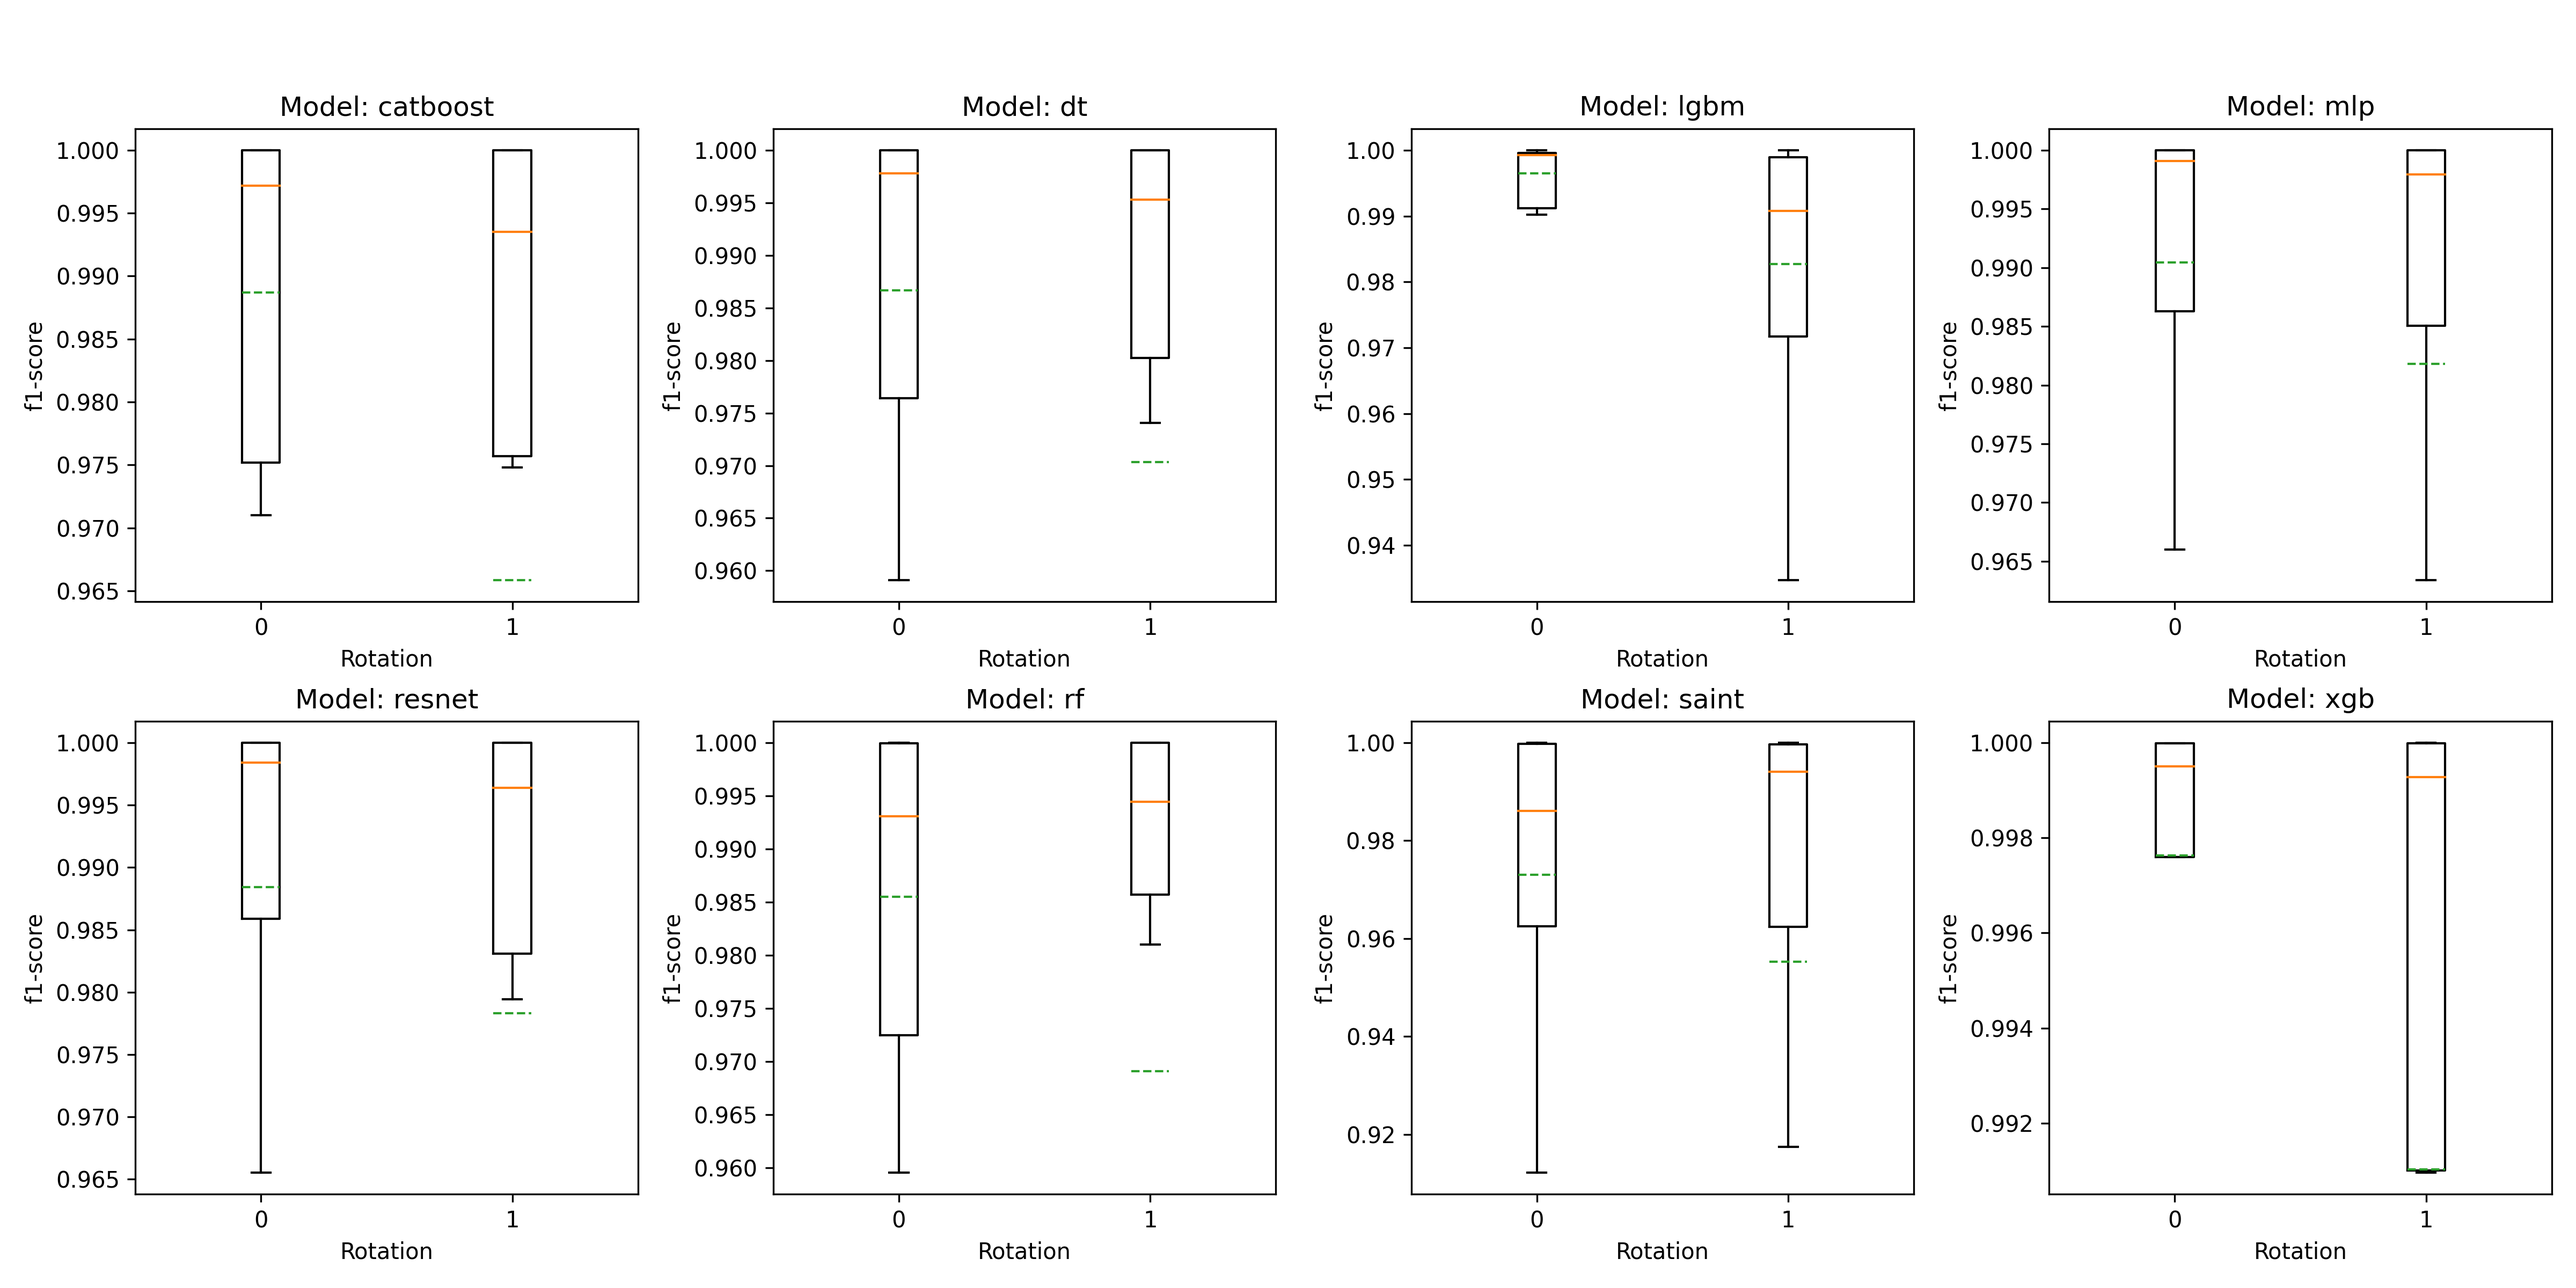
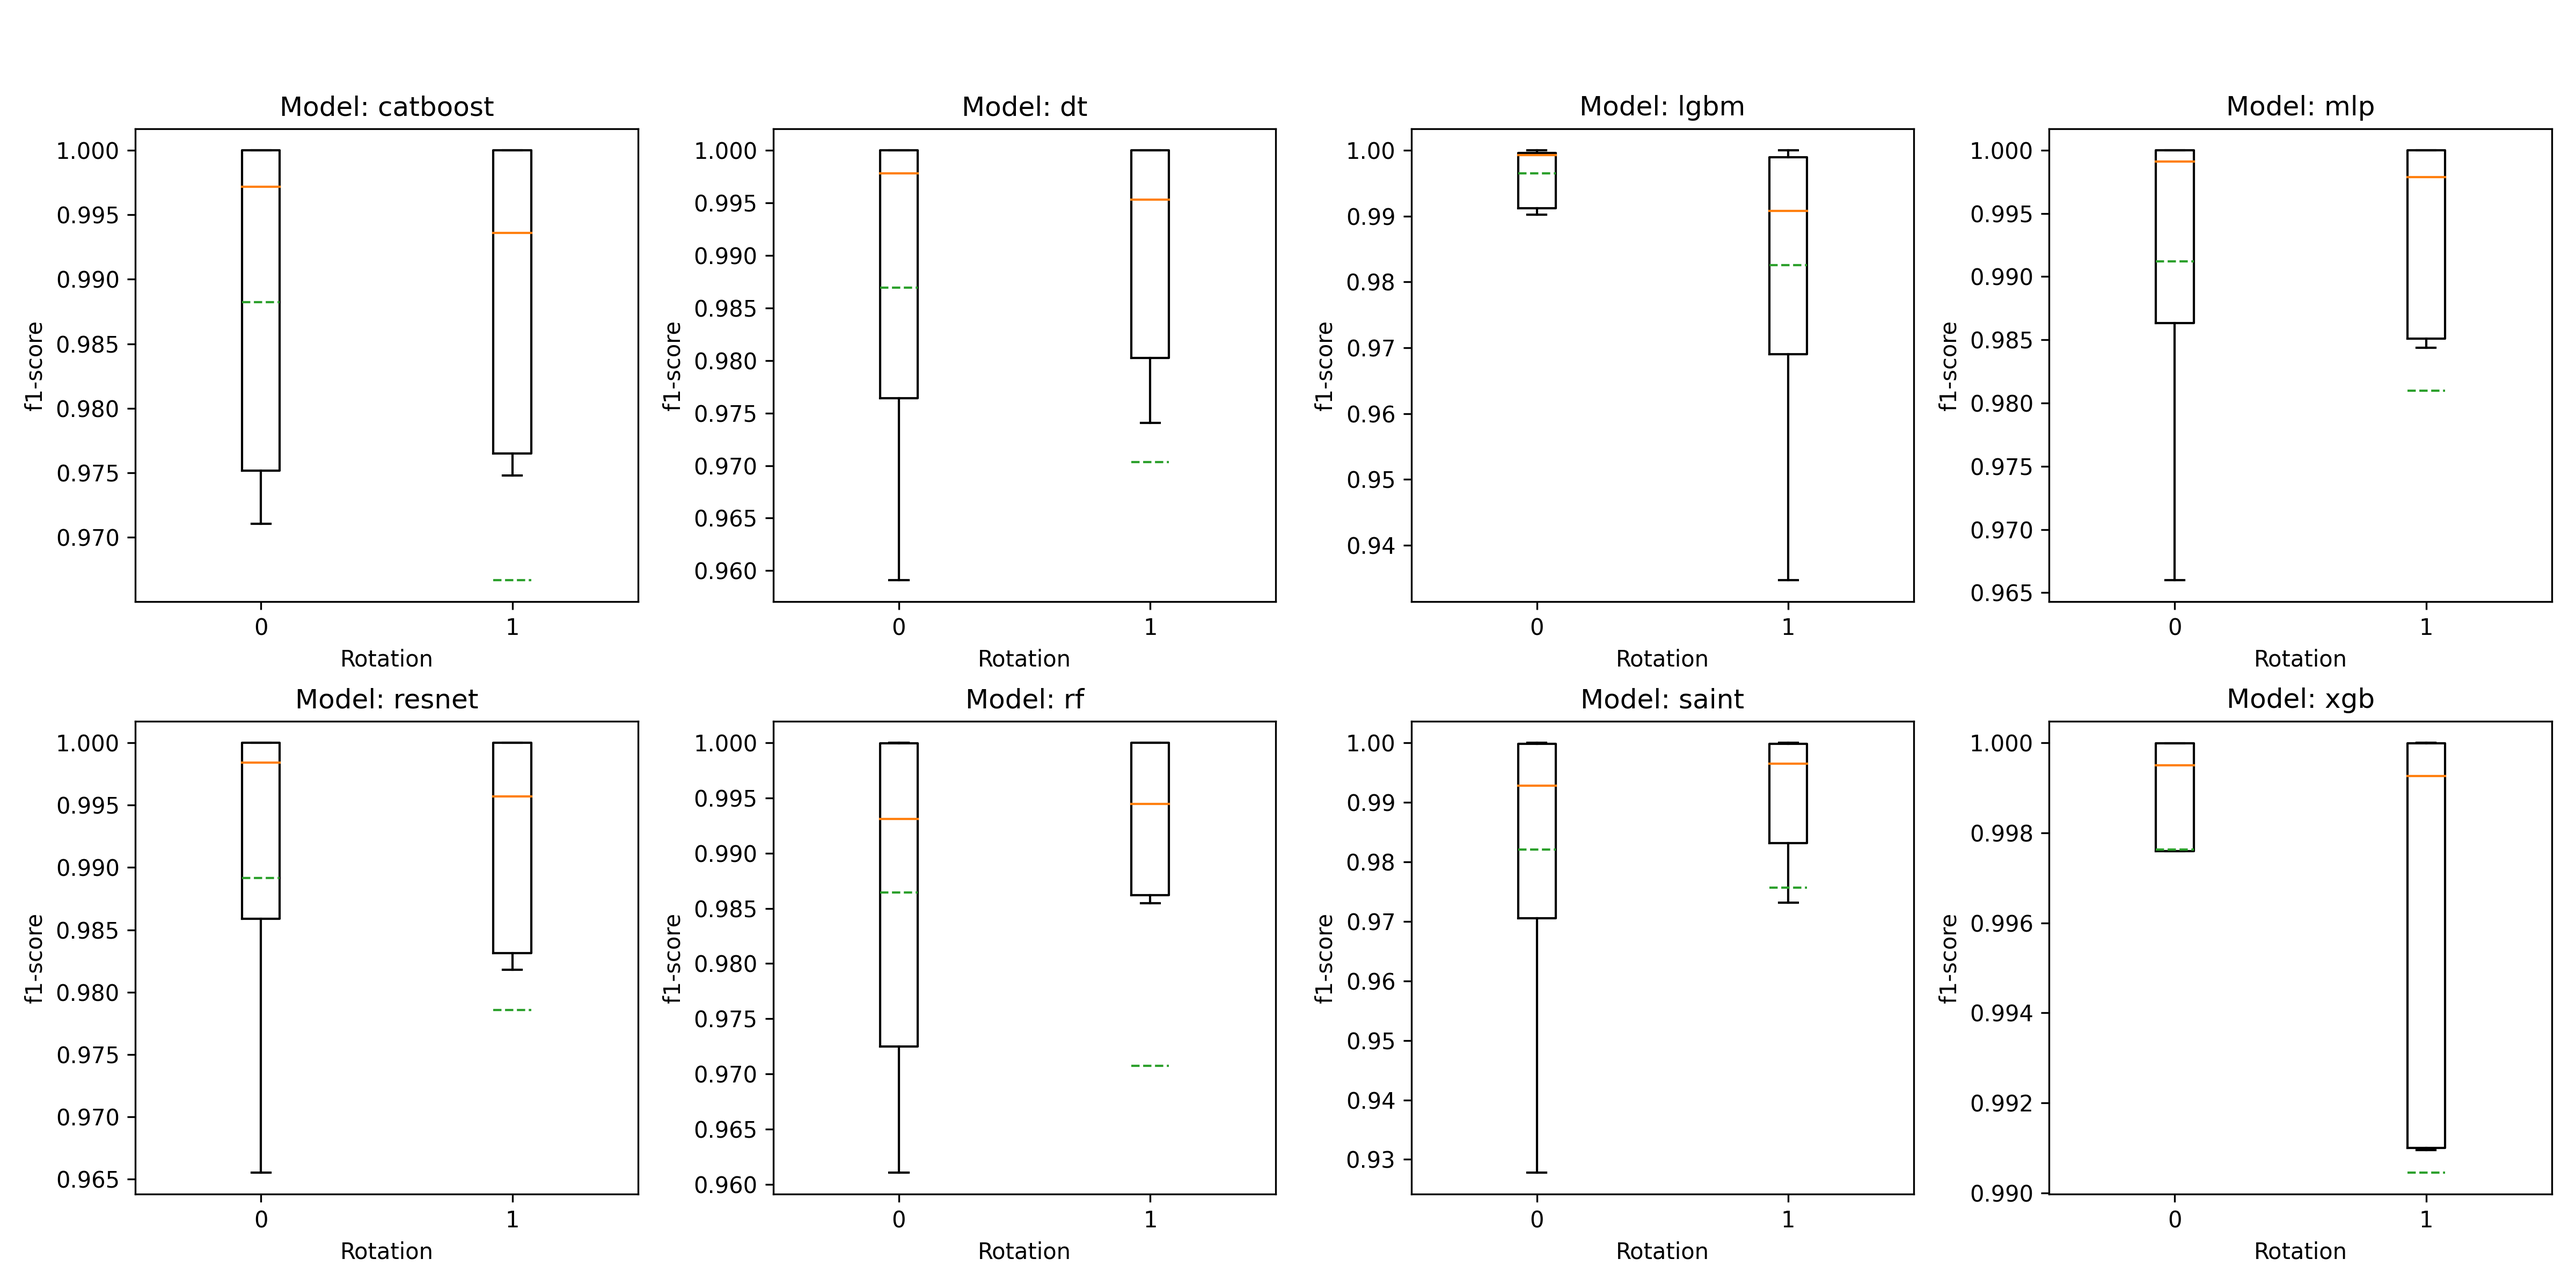
Update boxplot
Remove outliers and scale the y-axis to the same range

diff --git a/src/plot_results.py b/src/plot_results.py
@@ -1,5 +1,6 @@
 import re
 import pandas as pd
+import numpy as np
 import matplotlib.pyplot as plt
 import ipdb
 
@@ -12,6 +13,28 @@ def extract_data(df, col):
         return dataset, model, rotation, metric
     else:
         return None
+
+
+def normalize_metric(acc, min_value, max_value):
+    """
+    Normalize accuracy between 0 and 1 using an affine renormalization.
+    """
+    return (acc - min_value) / (max_value - min_value)
+
+
+def remove_outliers_iqr(data):
+    # Calculate the first and third quartiles
+    q1 = np.percentile(data, 25)
+    q3 = np.percentile(data, 75)
+
+    # Calculate the IQR
+    iqr = q3 - q1
+
+    # Define the lower and upper bounds for outliers
+    lower_bound = q1 - 1.5 * iqr
+    upper_bound = q3 + 1.5 * iqr
+
+    return lower_bound, upper_bound
 
 
 def parse_metric():
@@ -35,23 +58,33 @@ def parse_metric():
                 dataset, model, rotation, metric = col_info
                 iterations = range(1, len(result_df) + 1)
 
+                # Calculate outlier boundaries for the current set of (metric, dataset, rotation, model)
+                lower_bound, upper_bound = remove_outliers_iqr(result_df[col])
+
                 for i, value in enumerate(result_df[col]):
-                    new_data["iteration"].append(iterations[i])
-                    new_data["dataset"].append(dataset)
-                    new_data["model"].append(model)
-                    new_data["rotation"].append(rotation)
-                    new_data["metric"].append(metric)
-                    new_data["value"].append(value)
+                    # Check if the value is within the outlier boundaries
+                    if lower_bound <= value <= upper_bound:
+                        new_data["iteration"].append(iterations[i])
+                        new_data["dataset"].append(dataset)
+                        new_data["model"].append(model)
+                        new_data["rotation"].append(rotation)
+                        new_data["metric"].append(metric)
+                        new_data["value"].append(value)
 
     new_data_df = pd.DataFrame(new_data)
+
     return new_data_df, metrics
 
 
 def plot_by_metrics():
     new_data_df, metrics = parse_metric()
+    lower_bound = new_data_df.groupby(["metric", "dataset"])["value"].min()
 
     for i, (metric, metric_group) in enumerate(new_data_df.groupby("metric")):
-        fig, axs = plt.subplots(2, 5, figsize=(20, 8), dpi=300)
+        n_rows, n_cols, plot_size = (2, 5, 4)
+        fig, axs = plt.subplots(
+            n_rows, n_cols, figsize=(n_cols * plot_size, n_rows * plot_size), dpi=300
+        )
         axs = axs.ravel()
 
         # Create an empty DataFrame to store the statistics for all rotations of the dataset
@@ -72,8 +105,18 @@ def plot_by_metrics():
                 ax.set_xlabel("Model")
                 ax.set_ylabel(f"{rotation} {metric}")
 
+                y_margin_percent = 5
+                y_min = lower_bound.loc[(metric, dataset)]
+                y_max = 1
+                y_range = y_max - y_min
+                y_margin = y_range * y_margin_percent / 100
+
+                # Set the y-axis limits with the margin
+                ax.set_ylim(y_min - y_margin, y_max + y_margin)
+                # ax.set_ylim(lower_bound.loc[(metric, dataset)], 1)
+
                 boxplot_data.boxplot(
-                    ax=ax, grid=False, showfliers=True, showmeans=True, meanline=True
+                    ax=ax, grid=False, showfliers=False, showmeans=True, meanline=True
                 )
 
                 # Calculate statistics (median, mean, etc.) and store them in a DataFrame
@@ -94,7 +137,7 @@ def plot_by_metrics():
 
         plt.tight_layout()
         plt.subplots_adjust(top=0.9)
-        plt.savefig(f"boxplots/dataset_{metric}.png")
+        plt.savefig(f"boxplots/details_{metric}.png")
         plt.close()
 
 
@@ -102,7 +145,10 @@ def plot_by_models():
     new_data_df, _ = parse_metric()
 
     for i, (metric, metric_group) in enumerate(new_data_df.groupby("metric")):
-        fig, axs = plt.subplots(2, 4, figsize=(16, 8), dpi=300)
+        n_rows, n_cols, plot_size = (2, 4, 4)
+        fig, axs = plt.subplots(
+            n_rows, n_cols, figsize=(n_cols * plot_size, n_rows * plot_size), dpi=300
+        )
         axs = axs.ravel()
 
         for j, (model, model_group) in enumerate(metric_group.groupby("model")):
@@ -127,6 +173,39 @@ def plot_by_models():
         plt.close()
 
 
+def plot_by_datasets():
+    new_data_df, _ = parse_metric()
+
+    for i, (metric, metric_group) in enumerate(new_data_df.groupby("metric")):
+        n_rows, n_cols, plot_size = (1, 5, 4)
+        fig, axs = plt.subplots(
+            n_rows, n_cols, figsize=(n_cols * plot_size, n_rows * plot_size), dpi=300
+        )
+        axs = axs.ravel()
+
+        for j, (dataset, dataset_group) in enumerate(metric_group.groupby("dataset")):
+            ax = axs[j]
+            for rotation, rotation_group in dataset_group.groupby("rotation"):
+                boxplot_data = rotation_group["value"]
+
+                ax.boxplot(
+                    boxplot_data,
+                    positions=[int(rotation == "rot")],
+                    showfliers=False,
+                    showmeans=True,
+                    meanline=True,
+                )
+            ax.set_title(f"Dataset: {dataset}")
+            ax.set_xlabel("Rotation")
+            ax.set_ylabel(metric)
+
+        plt.tight_layout()
+        plt.subplots_adjust(top=0.9)
+        plt.savefig(f"boxplots/datasets_{metric}")
+        plt.close()
+
+
 if __name__ == "__main__":
     plot_by_metrics()
     plot_by_models()
+    plot_by_datasets()
